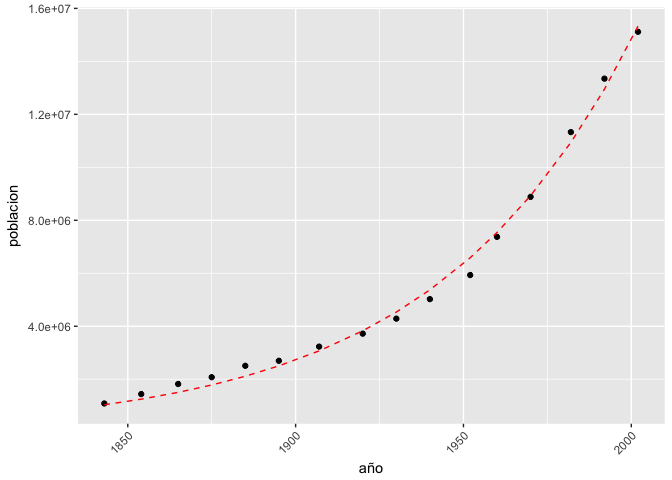
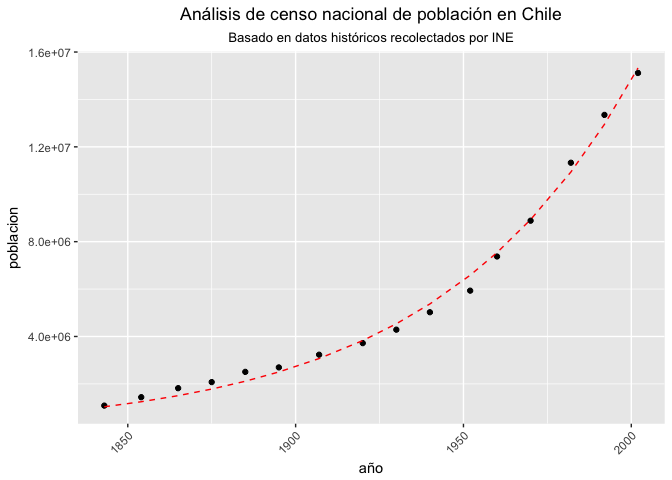
Updated 01 construccion de modelos

diff --git a/clase_7/01_Construccion_de_modelos.md b/clase_7/01_Construccion_de_modelos.md
@@ -326,7 +326,10 @@ Visualizamos el resultado del ajuste no lineal usando el modelo de regresión lo
 
 ``` r
 censo$poblacion.predict <- predict(mfit, newdata=censo)
-plot1 + geom_line(data=censo, aes(x=año, y=poblacion.predict), linetype="dashed", color="red")
+plot1 +
+  geom_line(data=censo, aes(x=año, y=poblacion.predict), linetype="dashed", color="red") +
+  ggtitle("Análisis de censo nacional de población en Chile", subtitle="Basado en datos históricos recolectados por INE") +
+  theme(plot.title = element_text(hjust = 0.5), plot.subtitle = element_text(hjust = 0.5))
 ```
 
 ![](01_Construccion_de_modelos_files/figure-markdown_github/unnamed-chunk-21-1.png)
